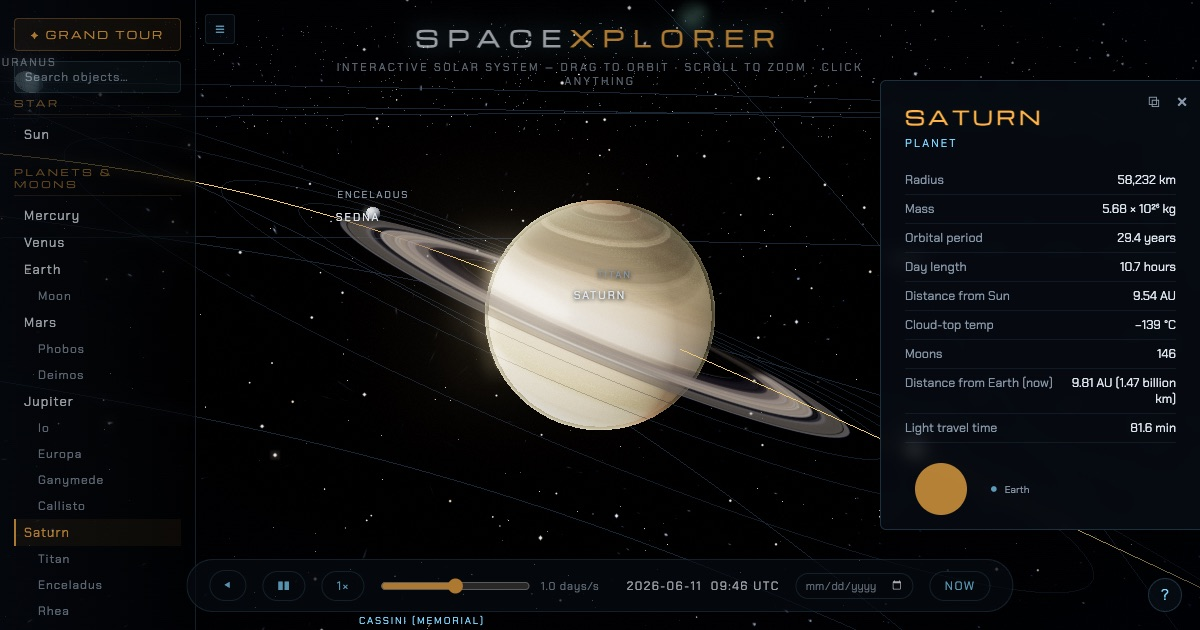
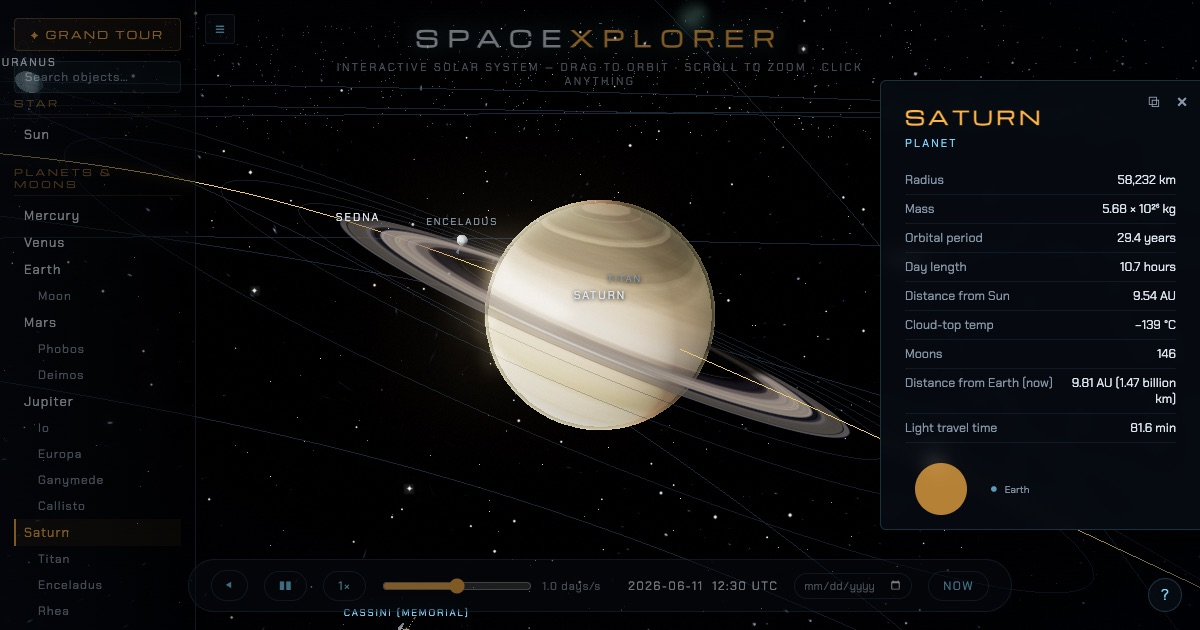
Regenerate social card with 4K Saturn

diff --git a/PRD.md b/PRD.md
@@ -2,7 +2,7 @@
 
 **Status:** Living document — the improvement loop works against this.
 **Owner:** Jeff
-**Last updated:** 2026-06-13 (iteration 74)
+**Last updated:** 2026-06-13 (iteration 75)
 
 ## 1. Vision
 
